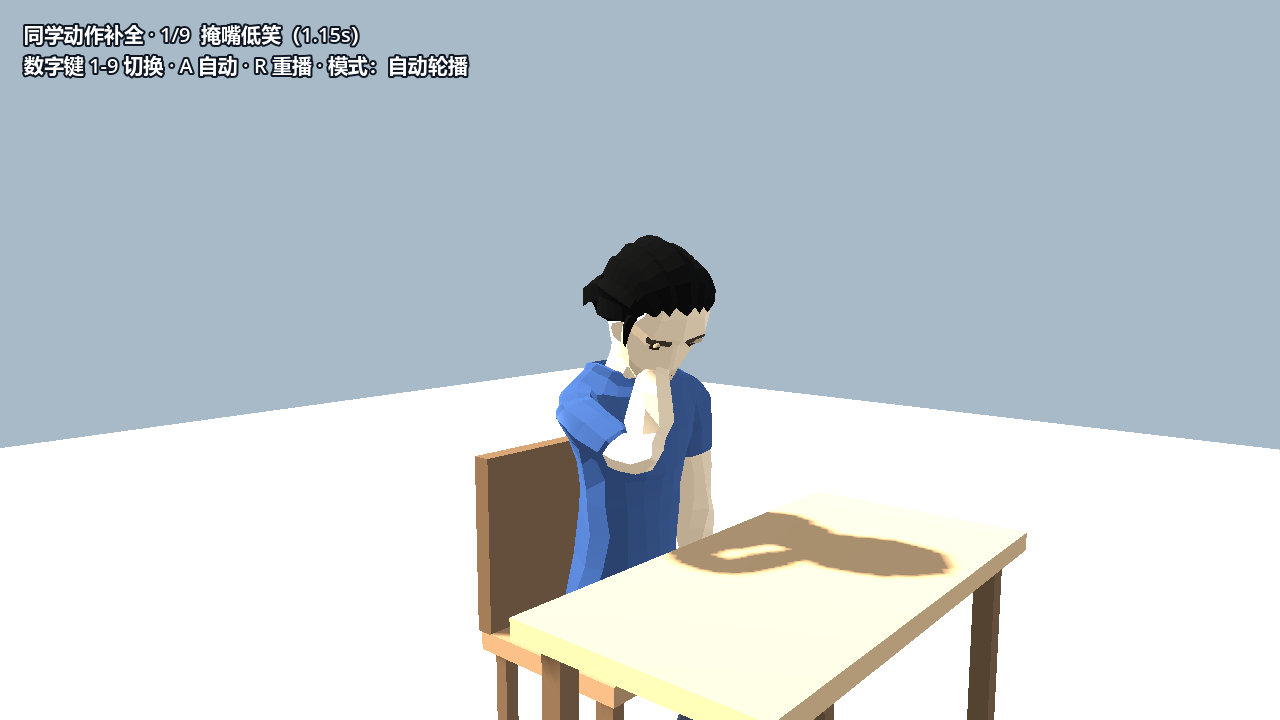
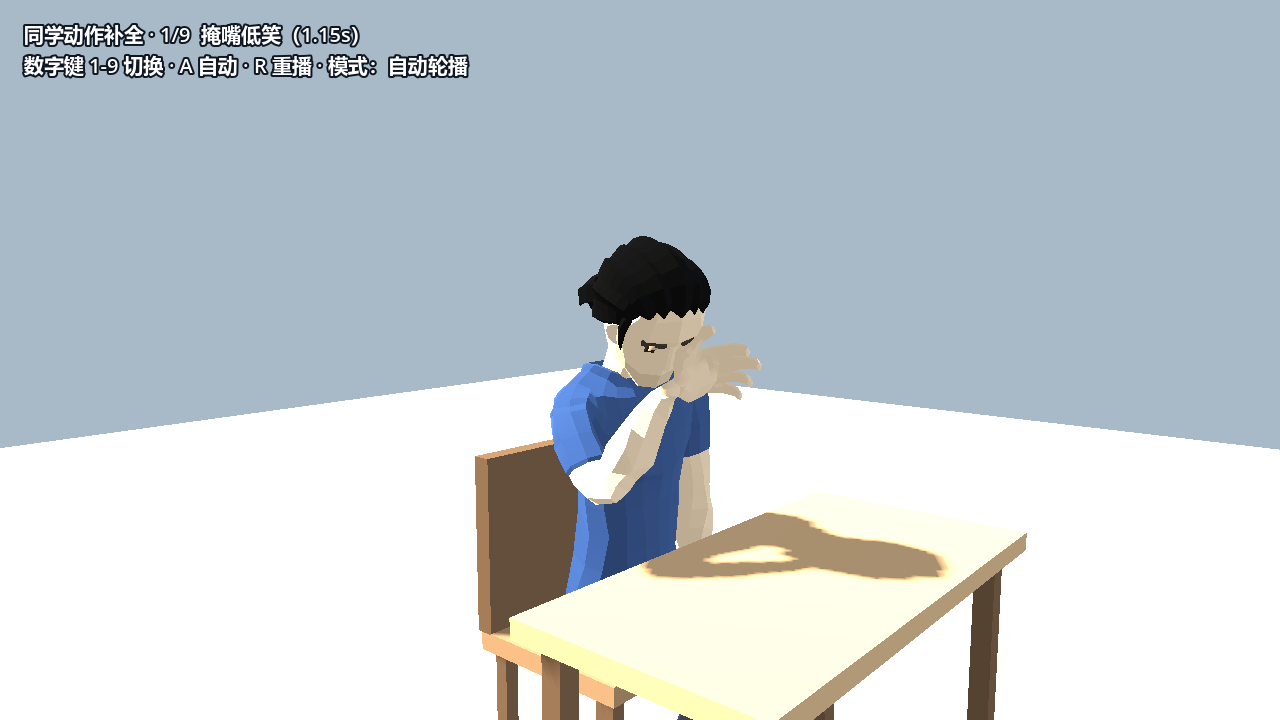
fix: 掩嘴手位改用实测嘴面片，修复同学手插进头里
- 手骨原点是手腕，原先按头部骨原点加固定偏移，手掌会落进头部
- TeacherFace 暴露 get_mouth_world()；掩嘴/交头接耳以实测嘴面片为基准，
  手腕前移 4.5 cm、下移 1.6 cm，手指横向掠过嘴唇，只遮嘴不遮眼
- 新增断言：手到嘴面片距离 3~16 cm，既不穿头也不悬空
- 更新 08/17/18 效果图与交付记录（56 checks）

diff --git a/docs/角色动作补全-24项-2026-10-24.md b/docs/角色动作补全-24项-2026-10-24.md
@@ -41,7 +41,7 @@ Godot_v4.6.1-stable_win64_console.exe --path . res://scenes/actors/props/props_p
 | 4 | 四处看循环 | `LOOK_AROUND`：3 个视线落点（-36° / +28° / 回正），两端停留，7.4 s 循环，双手腰前轻扣 | 主角 4 | [四处看](character-actions/04-protagonist-look-around.png) |
 | 5 | 扶桌边 + 手慢慢收回 | `HAND_ON_DESK` 手掌压桌面；`HAND_RETRACT` 1.4 s 从桌边收回到腿上 | 主角 5、6 | [扶桌边](character-actions/05-protagonist-hand-on-desk.png) · [收回](character-actions/06-protagonist-hand-retract.png) |
 | 6 | 输入回答时的站立细节 | `STAND_INPUT`：双手腰前轻扣、重心缓慢移动、低头看输入框并周期性抬眼看老师，10 s 循环 | 主角 7 | [站立输入](character-actions/07-protagonist-input-stance.png) |
-| 7 | E02 低笑：肩膀轻动 | `LAUGH_SHAKE`：掌侧贴嘴、手指弯曲，躯干/肩以 17 rad/s 抖动并在 1.15 s 内衰减 | 同学 1 | [掩嘴低笑](character-actions/08-classmate-laugh.png) |
+| 7 | E02 低笑：肩膀轻动 | `LAUGH_SHAKE`：右手横在嘴前（按实测嘴面片定位，留 4.5 cm 余量）、手指横向掠过嘴唇，躯干/肩以 17 rad/s 抖动并在 1.15 s 内衰减 | 同学 1 | [掩嘴低笑](character-actions/08-classmate-laugh.png) |
 | 8 | E03 完整点头 | `NOD_FULL`：一次完整点头（含轻微二次回弹），1.25 s 回正 | 同学 2 | [点头](character-actions/09-classmate-nod.png) |
 | 9 | 弯腰捡笔连贯动作 | `PICK_PEN`：侧身弯腰 → 抓笔 → 起身放回课本旁 → 食指轻点 → 收手，4.2 s；笔道具随手移动 | 同学 3 | [弯腰](character-actions/10-classmate-pick-pen-bend.png) · [放回](character-actions/11-classmate-pick-pen-place.png) |
 | 10 | 抬眼回头看向主角 | `LOOK_BACK`：躯干 18°、颈 30°、头 16° 转头并抬下巴，1.5 s，画面里只见侧脸 | 同学 4 | [回头抬眼](character-actions/12-classmate-look-back.png) |
@@ -113,8 +113,10 @@ Godot_v4.6.1-stable_win64_console.exe --path . res://scenes/actors/props/props_p
 
 ### 7. 掩嘴低笑
 
-右手掌心贴嘴、手指弯曲（0.78 握持），躯干与肩以 17 rad/s 抖动，1.15 s 内衰减到静止；
-头略低，表情带笑意。相对原来的 `COVER_MOUTH` 静态姿，多了“肩膀轻动两下”的过程。
+右手横在嘴前、掌心朝嘴、手指横向掠过嘴唇（0.72 握持），躯干与肩以 17 rad/s 抖动，
+1.15 s 内衰减到静止；头略低，表情带笑意。手位以 `TeacherFace` 实测的嘴面片为基准，
+手腕再向前留 4.5 cm，避免手骨原点是手腕、手指又向上伸展时插进头部。
+相对原来的 `COVER_MOUTH` 静态姿，多了“肩膀轻动两下”的过程。
 
 ![掩嘴低笑](character-actions/08-classmate-laugh.png)
 
@@ -369,10 +371,11 @@ Godot 4.6.1 标准版、Compatibility、本机：
 
 - [x] `--headless --path . --editor --import --quit`：零 SCRIPT ERROR / 解析错误；
       新脚本 `.uid` 自动生成。
-- [x] `tests/character_actions_check.gd`：**PASS（55 checks）**——17 个动作逐一切换并断言
+- [x] `tests/character_actions_check.gd`：**PASS（56 checks）**——17 个动作逐一切换并断言
       头/颈/躯干/手臂至少有一处偏离 rest；坐姿髋高 = 0.47、起身终点 = 站立髋高、
       坐下终点 = 0.47；四处看两个落点 yaw 差 > 20°；捡笔时躯干前倾、笔在手里/桌面；
-      画方格三件道具可见、擦线窗口橡皮在左手；放低课本落到桌面；掩嘴手到头距离 < 0.16 m；
+      画方格三件道具可见、擦线窗口橡皮在左手；放低课本落到桌面；掩嘴手到嘴面片距离
+      3~16 cm（既不插进头也不悬空）；
       说话时嘴张开 > 0.15；一次性动作发出 `clip_finished`；女性骨架四项动作；
       四个演示场景与两个人物模板可加载并绑定角色；道具工厂件数。
 - [x] `tests/teacher_extra_check.gd`：**PASS（25 checks）**——粉笔在放下前可见、末尾消失；
